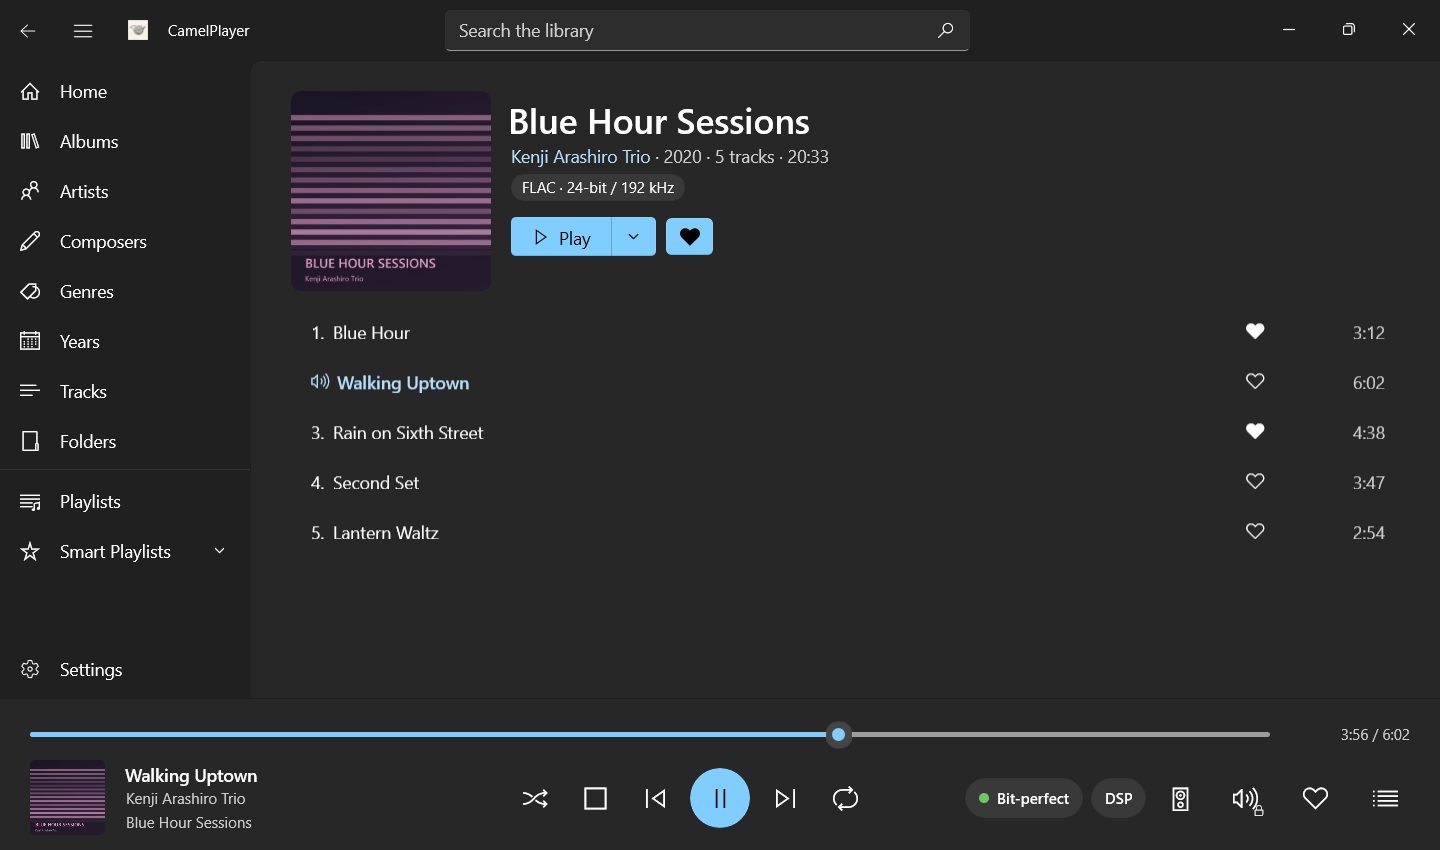
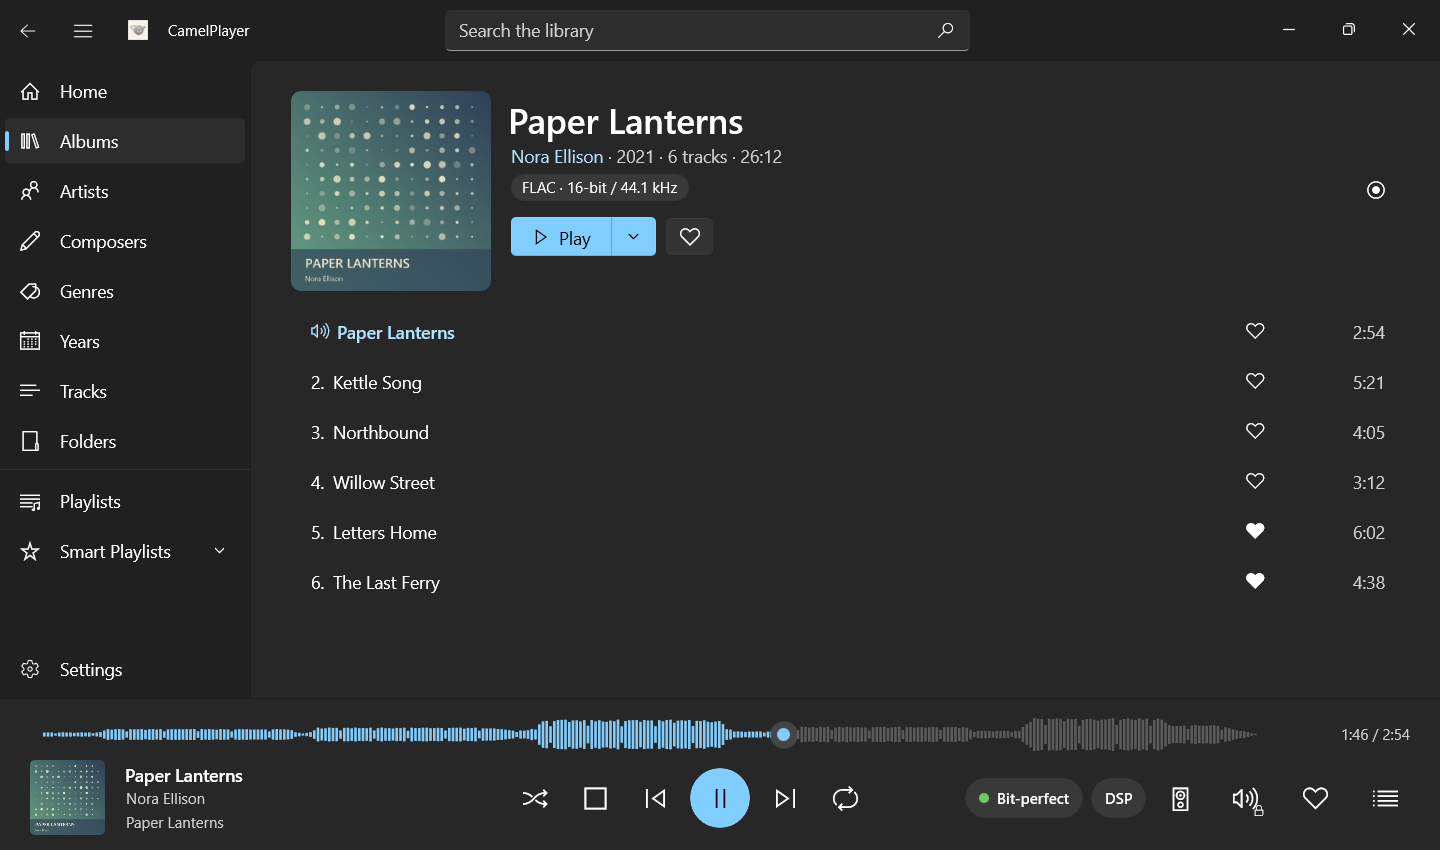
Retake the README screenshots and bring the README up to date
Twelve screenshots instead of six, taken on 0.4.1 with a track whose
waveform rises and falls: lyrics, file details, the output menu, audio
outputs, the parametric EQ and the folder tree join the others. The
waveform, lyrics and file details move from Sound to Listening, slow
network sources and Go to playing are described, Ctrl+L and Alt+Enter
join the keys, and the test counts are those of 0.4.1.

diff --git a/README.md b/README.md
@@ -10,15 +10,21 @@ It is built with C++20, WinUI 3 and Rust, and is a separate project from the ear
 
 ## Screenshots
 
-The screenshots show a demo library with made-up albums and covers.
+The screenshots show a demo library with made-up albums, covers and lyrics.
 
 | ![Home](assets/screenshots/home.png) | ![Album wall](assets/screenshots/albums.png) |
 |:---:|:---:|
-| Home: recently played and recently added albums | The album wall with its jump bar |
+| Home: recently played and recently added albums, the playing track's waveform in the player bar | The album wall with its jump bar |
 | ![Album details](assets/screenshots/album.png) | ![Queue and signal path](assets/screenshots/playback.png) |
 | Album details with format badges and favorites | The queue and the signal path of bit-perfect ASIO playback |
+| ![Lyrics](assets/screenshots/lyrics.png) | ![File details](assets/screenshots/file-details.png) |
+| Lyrics over the window, a translation lit with its line | File details: every tag and the technical data |
+| ![Output menu](assets/screenshots/output-menu.png) | ![Audio outputs](assets/screenshots/outputs.png) |
+| The output menu: a DAC, network players and AirPlay | Settings: audio outputs with names of your choice |
+| ![Parametric EQ](assets/screenshots/dsp.png) | ![Folder tree](assets/screenshots/folders.png) |
+| The parametric EQ, shown as processed | The folder tree with the playing track marked |
 | ![Listening](assets/screenshots/listening.png) | ![Output status](assets/screenshots/settings.png) |
-| Listening: this month's time, plays and most played | Settings: the output status during playback |
+| Listening: this year's time, plays and chart | Settings: the output status during playback |
 
 ## Features
 
@@ -31,11 +37,9 @@ The screenshots show a demo library with made-up albums and covers.
 - **DSP** in Settings › DSP: a parametric EQ (five bands to start, up to ten in the editor, eight filter types and per-channel bands on a draggable curve, presets, and Equalizer APO and AutoEq import and export), bs2b headphone crossfeed, and convolution with an impulse response from a mono, stereo or true-stereo .wav or a .zip with one per sample rate. Their order can be changed, one automatic preamp keeps the whole chain from clipping, and changes are heard within a quarter of a second without a gap. While nothing changes the signal, playback stays bit-perfect.
 - **Volume and ReplayGain:** volume stays fixed for your DAC or amplifier unless you choose software volume, whose vertical slider and mute open from the player bar's volume button. ReplayGain plays tracks or albums (or either, by what the queue plays) at an even loudness from their tags; tracks without tags are analyzed in the background with EBU R128 while ReplayGain is on, and the results stay in the library.
 - **Gapless playback** between tracks of the same format, and **crossfade** (1–10 s, off by default) at every other change of track, natural or chosen; an album played in order stays gapless.
+- **Slow network sources play without breaks:** a file read slower than it plays, such as DSD256 from a NAS over Wi-Fi, is read ahead before it starts, with a notice of how long the wait is, and buffers again rather than play in pieces.
 - **An output menu** in the player bar switches between the outputs you enable in Settings › Audio outputs, each with a name of your choice, and playback goes on from the audible position with the queue unchanged.
 - **Network players:** UPnP AV and OpenHome players on your network, played at the source's format with raw DSD as DSF where they declare it, gapless through the player's next-track function or OpenHome playlist, and with their own remote, app and volume still working. Windows Firewall needs one rule for them, for this program on private networks only, which CamelPlayer offers to add.
-- **A waveform in the playback bar** as in Roon, from an audio analysis made at once for the playing track and in the background for the library, in a nightly window by default.
-- **File details** of any track in a window of its own: every text tag under each tag format the file carries, with its own key, a mark where the library shows a field otherwise, and the technical data, all selectable, with Open folder.
-- **Lyrics** from the player bar's cover, over the whole window as in Roon: embedded or from a `.lrc` beside the file, synced lines following what you hear with a translation under the same stamp lit together, a click on a line playing from there.
 - **AirPlay:** Apple's own receivers, including HomePods and a HomePod stereo pair, at 44.1 kHz/16-bit stereo, unchanged for a CD-format source and through the conversion rule otherwise, over the same firewall rule. Several receivers play together in step, each with its own volume under the group's slider, and a single speaker can play the left or the right channel alone, so that two make a stereo pair.
 - **Output settings for each device:** a fixed sample rate, pre-decode amount, silence after a format change, device release after a pause, buffers, MMCSS priority, and ASIO and Kernel Streaming options.
 
@@ -53,12 +57,15 @@ The screenshots show a demo library with made-up albums and covers.
 
 ### Queue, playlists and favorites
 
-- **A queue** with play next, add to the end, reordering, shuffle, repeat and history, restored at the next start. Every list marks the track it is on. When it ends, autoplay keeps random library tracks playing.
+- **A queue** with play next, add to the end, reordering, shuffle, repeat and history, restored at the next start. Every list marks the track it is on, and the album wall, the Folders page and the folder tree mark the album or folder that holds it; Go to playing (Ctrl+L) scrolls to it, opening the folders on the way. When it ends, autoplay keeps random library tracks playing.
 - **Playlists** made from any selection, with M3U8 import and export.
 - **Favorite tracks, albums, artists and composers**, and smart lists: recently added, most played, last played, favorites and never played. A favorite artist is kept by name, so it stays one through rescans and moves.
 
 ### Listening
 
+- **Lyrics** from the player bar's cover, over the whole window as in Roon: embedded or from a `.lrc` beside the file, synced lines following what you hear with a translation under the same stamp lit together, a click on a line playing from there.
+- **A waveform in the playback bar** as in Roon, from an audio analysis made at once for the playing track and in the background for the library, in a nightly window by default.
+- **File details** of any track in a window of its own: every text tag under each tag format the file carries, with its own key, a mark where the library shows a field otherwise, and the technical data, all selectable, with Open folder.
 - **Home** shows this month's listening time, plays and most played album, and opens the **Listening** page: totals for today, this week, this month, this year and all time, a listening-time chart, the most played albums, artists and tracks, and the play history.
 
 ### Windows
@@ -121,6 +128,8 @@ DoP needs a PCM rate of the DSD rate / 16, so DSD512 over DoP plays only where t
 | Ctrl+Shift+→ / Ctrl+Shift+← | Forward or back 10 seconds |
 | Alt+← or the mouse back button | Back, like the title bar's Back button |
 | Ctrl+F | Search the library |
+| Ctrl+L | Go to the playing track |
+| Alt+Enter | File details of the selected track |
 | Delete | Remove the selected queue or playlist entries |
 | Ctrl-click, Shift-click | Select several rows for their right-click menu |
 
@@ -154,7 +163,7 @@ Each build also writes `build/compile_commands.json`, so clangd (for example in 
 
 ## Testing
 
-`.\build.cmd -Test` runs the ordinary C++ tests; `cargo test --workspace` in `rust/` runs the Rust Engine tests. `.\build.cmd -Sanitizers` runs the checks every release needs, each in a build of its own that never reaches the package: the C++ suite under MSVC AddressSanitizer and under clang-cl's UndefinedBehaviorSanitizer, `/analyze` on the annotated locks, Loom on the Engine's ring, Miri on its `unsafe` code, and ten minutes each of fuzzing on the DTS frame reader, the format probe and the UPnP, SSDP, mDNS and RTSP messages. It needs Visual Studio's "C++ Clang Compiler for Windows" and "MSBuild support for LLVM (clang-cl) toolset" components, and the nightly Rust toolchain with Miri and `cargo-fuzz`. The shipped program stays built by MSVC. `.\build.cmd -Asan` and `.\build.cmd -Ubsan` run those two suites alone. Windows has no ThreadSanitizer, so no tool here finds every race in the C++ code. On 2026-11-08 a full Release run passed all 904 enabled C++ tests, including the 100k-track search latency target, and all 826 Rust tests, with one measurement left to be run by hand.
+`.\build.cmd -Test` runs the ordinary C++ tests; `cargo test --workspace` in `rust/` runs the Rust Engine tests. `.\build.cmd -Sanitizers` runs the checks every release needs, each in a build of its own that never reaches the package: the C++ suite under MSVC AddressSanitizer and under clang-cl's UndefinedBehaviorSanitizer, `/analyze` on the annotated locks, Loom on the Engine's ring, Miri on its `unsafe` code, and ten minutes each of fuzzing on the DTS frame reader, the format probe and the UPnP, SSDP, mDNS and RTSP messages. It needs Visual Studio's "C++ Clang Compiler for Windows" and "MSBuild support for LLVM (clang-cl) toolset" components, and the nightly Rust toolchain with Miri and `cargo-fuzz`. The shipped program stays built by MSVC. `.\build.cmd -Asan` and `.\build.cmd -Ubsan` run those two suites alone. Windows has no ThreadSanitizer, so no tool here finds every race in the C++ code. On 2026-11-10, for 0.4.1, a full Release run passed all 976 enabled C++ tests, including the 100k-track search latency target, and all 97 Rust Engine tests.
 
 The 113 disabled tests play audio on named devices, scan a NAS or read the network players on your network, and need local files under `testdata/` that are not distributed. Lower the volume, then run the hardware tests explicitly after building:
 
